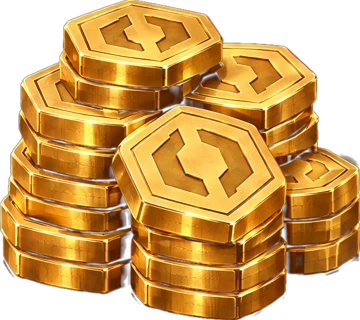
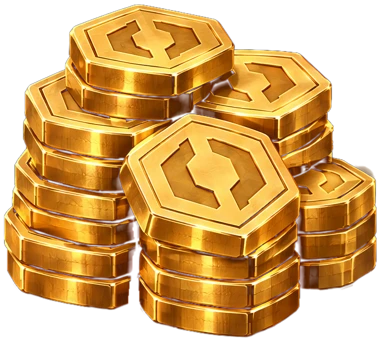
Kupičky mincí znovu vyříznuté: celé okraje, bez odrazů, s rezervou v kartě
Claude-Session: https://claude.ai/code/session_017NTkejaEJNNuxiLW1kjkT4

diff --git a/index.html b/index.html
@@ -198,42 +198,42 @@
           </div>
           <ul class="packs__track" id="packTrack">
             <li class="pack">
-              <span class="pack__pile" aria-hidden="true"><img src="assets/img/packs/pile-starting.webp?v=1" alt="" style="--s:0.42" loading="lazy"></span>
+              <span class="pack__pile" aria-hidden="true"><img src="assets/img/packs/pile-starting.webp?v=3" alt="" style="--s:0.42" loading="lazy"></span>
                 <span class="pack__name">Starting</span>
               <span class="pack__coins"><i class="coin-ico" aria-hidden="true"></i>200</span>
               <span class="pack__price">29 Kč</span>
               
             </li>
             <li class="pack">
-              <span class="pack__pile" aria-hidden="true"><img src="assets/img/packs/pile-s.webp?v=1" alt="" style="--s:0.52" loading="lazy"></span>
+              <span class="pack__pile" aria-hidden="true"><img src="assets/img/packs/pile-s.webp?v=3" alt="" style="--s:0.52" loading="lazy"></span>
                 <span class="pack__name">S</span>
               <span class="pack__coins"><i class="coin-ico" aria-hidden="true"></i>1 250</span>
               <span class="pack__price">129 Kč</span>
               
             </li>
             <li class="pack pack--hot">
-              <span class="pack__pile" aria-hidden="true"><img src="assets/img/packs/pile-m.webp?v=1" alt="" style="--s:0.64" loading="lazy"></span>
+              <span class="pack__pile" aria-hidden="true"><img src="assets/img/packs/pile-m.webp?v=3" alt="" style="--s:0.64" loading="lazy"></span>
                 <span class="pack__name">M</span>
               <span class="pack__coins"><i class="coin-ico" aria-hidden="true"></i>4 000</span>
               <span class="pack__price">349 Kč</span>
               <em class="pack__tag">Oblíbený</em>
             </li>
             <li class="pack">
-              <span class="pack__pile" aria-hidden="true"><img src="assets/img/packs/pile-l.webp?v=1" alt="" style="--s:0.76" loading="lazy"></span>
+              <span class="pack__pile" aria-hidden="true"><img src="assets/img/packs/pile-l.webp?v=3" alt="" style="--s:0.76" loading="lazy"></span>
                 <span class="pack__name">L</span>
               <span class="pack__coins"><i class="coin-ico" aria-hidden="true"></i>10 000</span>
               <span class="pack__price">749 Kč</span>
               
             </li>
             <li class="pack">
-              <span class="pack__pile" aria-hidden="true"><img src="assets/img/packs/pile-xl.webp?v=1" alt="" style="--s:0.88" loading="lazy"></span>
+              <span class="pack__pile" aria-hidden="true"><img src="assets/img/packs/pile-xl.webp?v=3" alt="" style="--s:0.88" loading="lazy"></span>
                 <span class="pack__name">XL</span>
               <span class="pack__coins"><i class="coin-ico" aria-hidden="true"></i>20 000</span>
               <span class="pack__price">1 249 Kč</span>
               
             </li>
             <li class="pack">
-              <span class="pack__pile" aria-hidden="true"><img src="assets/img/packs/pile-xxl.webp?v=1" alt="" style="--s:1.00" loading="lazy"></span>
+              <span class="pack__pile" aria-hidden="true"><img src="assets/img/packs/pile-xxl.webp?v=3" alt="" style="--s:1.00" loading="lazy"></span>
                 <span class="pack__name">XXL</span>
               <span class="pack__coins"><i class="coin-ico" aria-hidden="true"></i>35 000</span>
               <span class="pack__price">1 899 Kč</span>

diff --git a/assets/css/styles.css b/assets/css/styles.css
@@ -2219,3 +2219,5 @@ main .rankwin p { color: inherit; }
 .pack:hover .pack__pile img { transform: translateY(-3px); transition: transform .3s ease; }
 .pack__pile { height: 140px; }
 .pack__pile img { height: auto; width: calc(var(--s, 1) * 100%); max-height: 140px; }
+.pack__pile { height: 150px; padding: 10px 6px 0; box-sizing: border-box; }
+.pack__pile img { max-height: 132px; max-width: 92%; }
